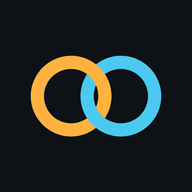
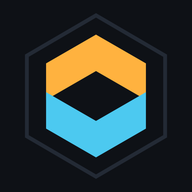
Synergy v1.1.0: compact view, squads and who-to-ask-for
- Heroes listed in game order, grouped by role (launch roster, then release order)
- Quick Play ignores rank (rank filter disabled there)
- Cards show win-rate points vs hero average with a confidence tag instead of a 0-100 score
- Effects fold away under an Effects toggle (remembered)
- Auto season falls back based on team-up partner games, not total hero games
- Compact view for a second monitor with type-ahead hero switching
- Squads: save and load your usual teammates
- Best hero to ask a teammate to swap to, ranked across the whole team
- New hex chevron logo on the header, browser tab and app icons
- CHANGELOG updated

Changed region(s): [[0.125, 0.0625, 0.875, 0.9375]]

diff --git a/index.html b/index.html
@@ -7,7 +7,8 @@
 <meta name="description" content="Pick your Marvel Rivals hero, add your teammates, and see which of your two team-ups to run, based on real match stats.">
 <meta name="theme-color" content="#0E1116">
 <link rel="manifest" href="manifest.webmanifest">
-<link rel="icon" href="icon-192.png">
+<link rel="icon" href="logo.svg" type="image/svg+xml">
+<link rel="alternate icon" href="icon-192.png">
 <link rel="apple-touch-icon" href="icon-192.png">
 <link rel="preconnect" href="https://fonts.googleapis.com">
 <link rel="preconnect" href="https://fonts.gstatic.com" crossorigin>
@@ -18,7 +19,7 @@
 <div class="wrap">
   <header class="top">
     <div class="brand">
-      <img class="logo" src="icon-192.png" alt="" width="44" height="44">
+      <img class="logo" src="logo.svg" alt="" width="46" height="46">
       <div>
         <h1>SYNERGY</h1>
         <p class="status" id="status">Loading stats…</p>

diff --git a/sw.js b/sw.js
@@ -1,7 +1,7 @@
 /* Synergy service worker: caches the app shell and hero art so the page opens fast.
    Stats always come fresh from the Worker (the app keeps its own saved copy). */
 const CACHE = 'synergy-v1.1.0';
-const SHELL = ['./', 'index.html', 'styles.css', 'app.js', 'config.js', 'data.js', 'manifest.webmanifest', 'icon-192.png', 'icon-512.png'];
+const SHELL = ['./', 'index.html', 'styles.css', 'app.js', 'config.js', 'data.js', 'manifest.webmanifest', 'icon-192.png', 'icon-512.png', 'logo.svg'];
 
 self.addEventListener('install', (e) => {
   e.waitUntil(caches.open(CACHE).then((c) => c.addAll(SHELL)).then(() => self.skipWaiting()));

diff --git a/styles.css b/styles.css
@@ -15,7 +15,7 @@ button{font-family:inherit;color:inherit}
 /* header */
 .top{display:flex;flex-wrap:wrap;align-items:center;justify-content:space-between;gap:14px;padding-bottom:16px;border-bottom:1px solid var(--line)}
 .brand{display:flex;align-items:center;gap:14px}
-.logo{border-radius:10px}
+.logo{display:block}
 h1{font-family:var(--head);font-weight:800;font-size:30px;letter-spacing:1px;line-height:1;margin:0}
 .status{margin:3px 0 0;font-size:13px;color:var(--muted)}
 .controls{display:flex;flex-wrap:wrap;gap:10px;align-items:center}

diff --git a/CHANGELOG.md b/CHANGELOG.md
@@ -10,6 +10,7 @@
 - New Compact view for a second monitor: huge PICK THIS card, the other option on one line, type-ahead hero switching (remembered; ?view=compact link)
 - Squads: save your usual teammates and load them in one tap
 - "Best hero to ask a teammate to swap to": ranks heroes by how much they'd add across your whole team
+- New logo (gold and blue chevrons locking into a hexagon) on the header, browser tab and app icons
 
 ## 2026-11 — v1.0.1 initials fallback for missing art
 - A hero portrait that fails to load now shows the hero's initials instead of an empty white box
